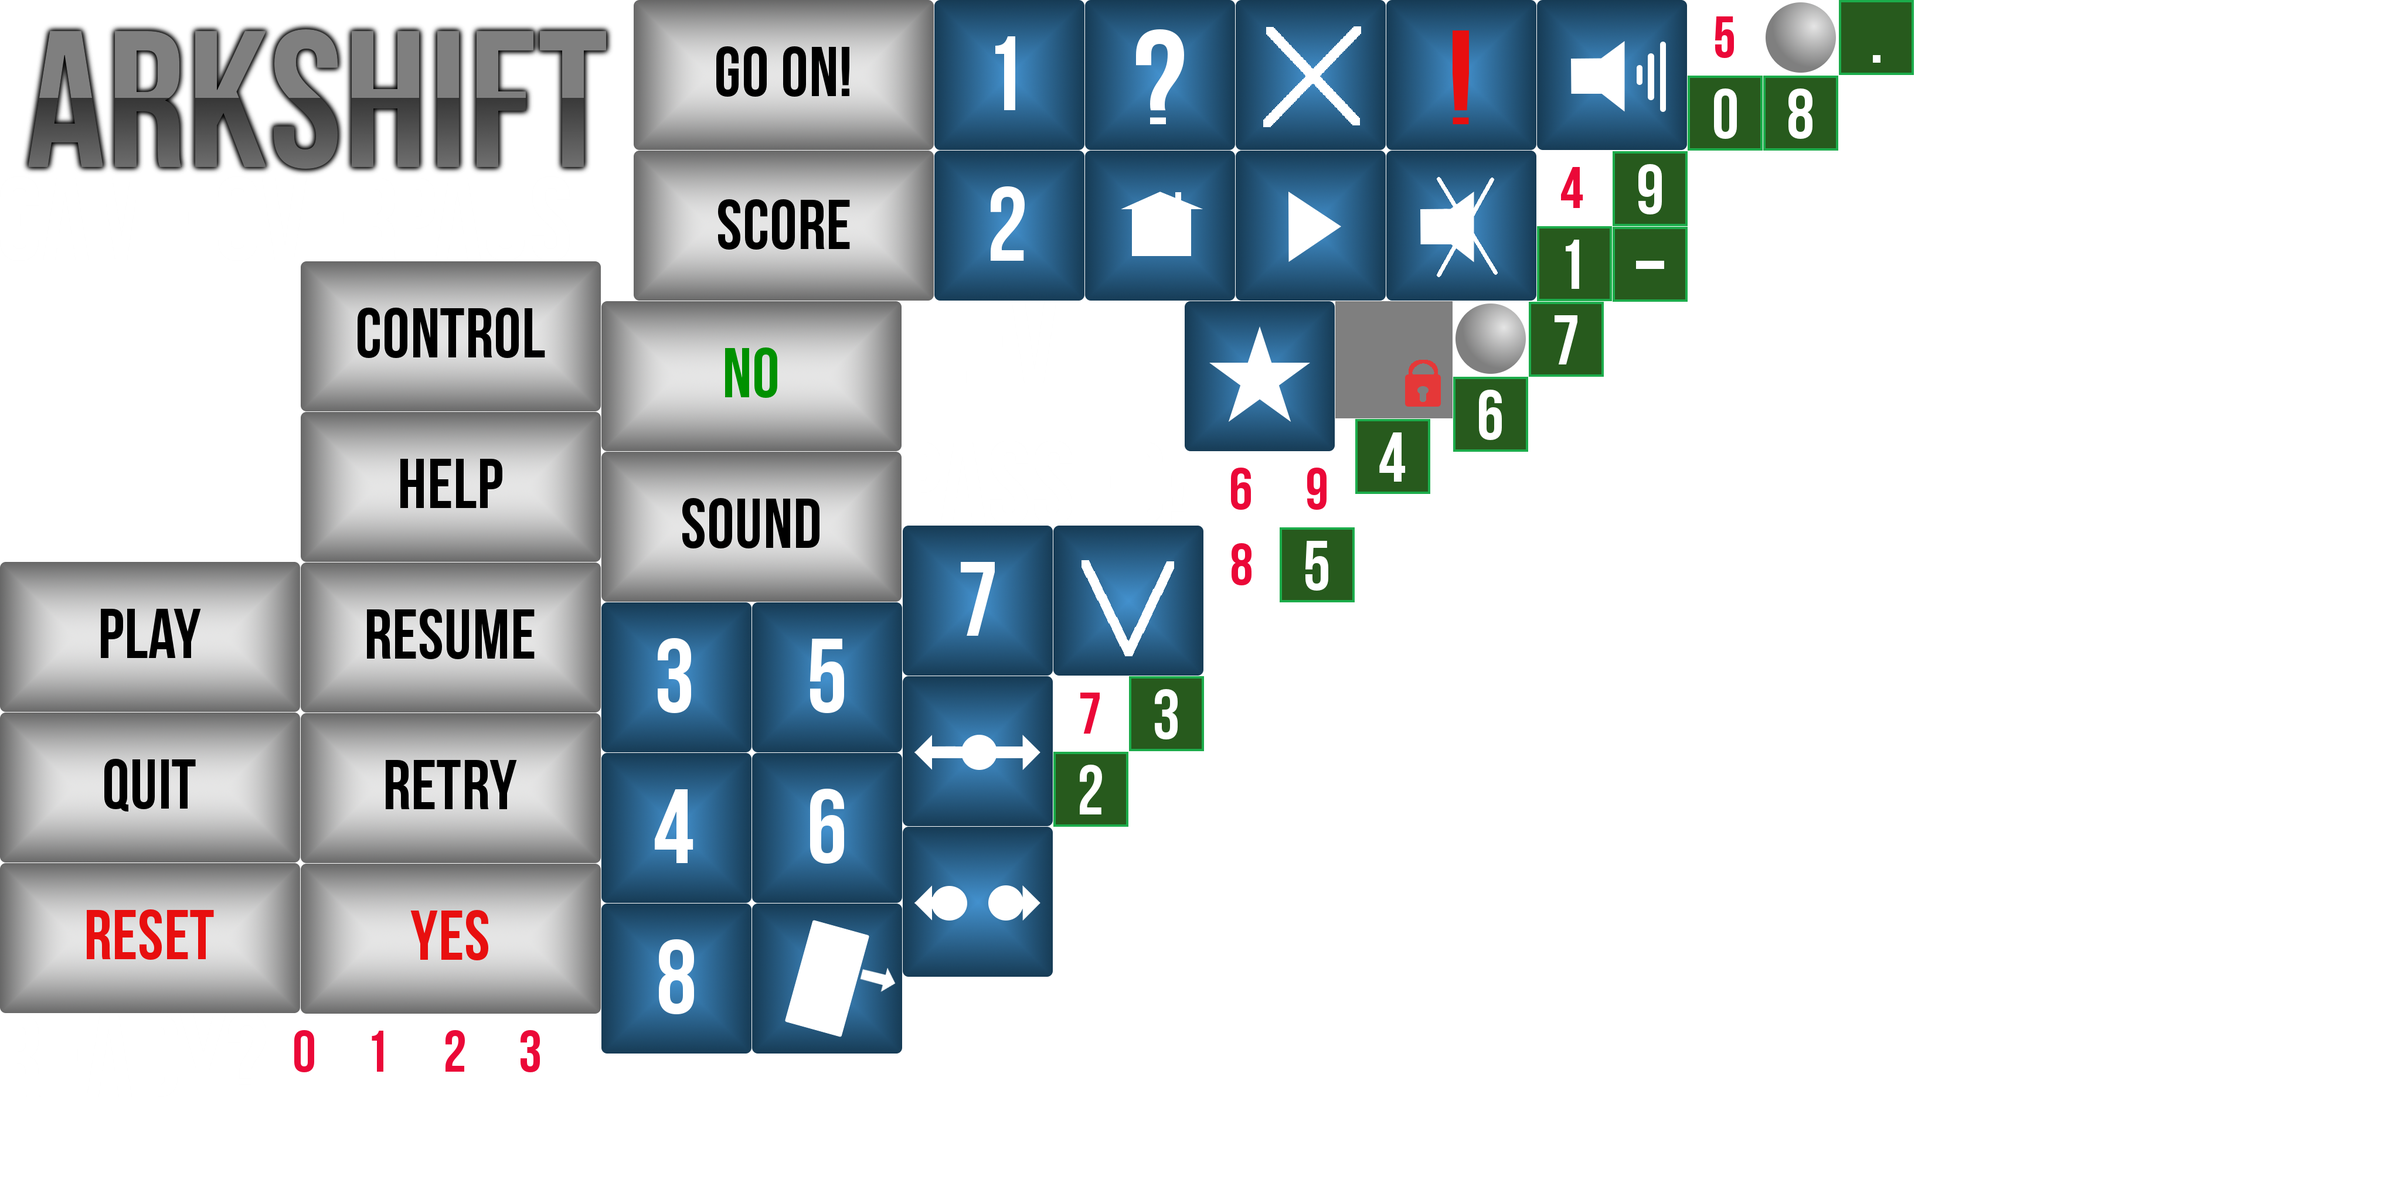
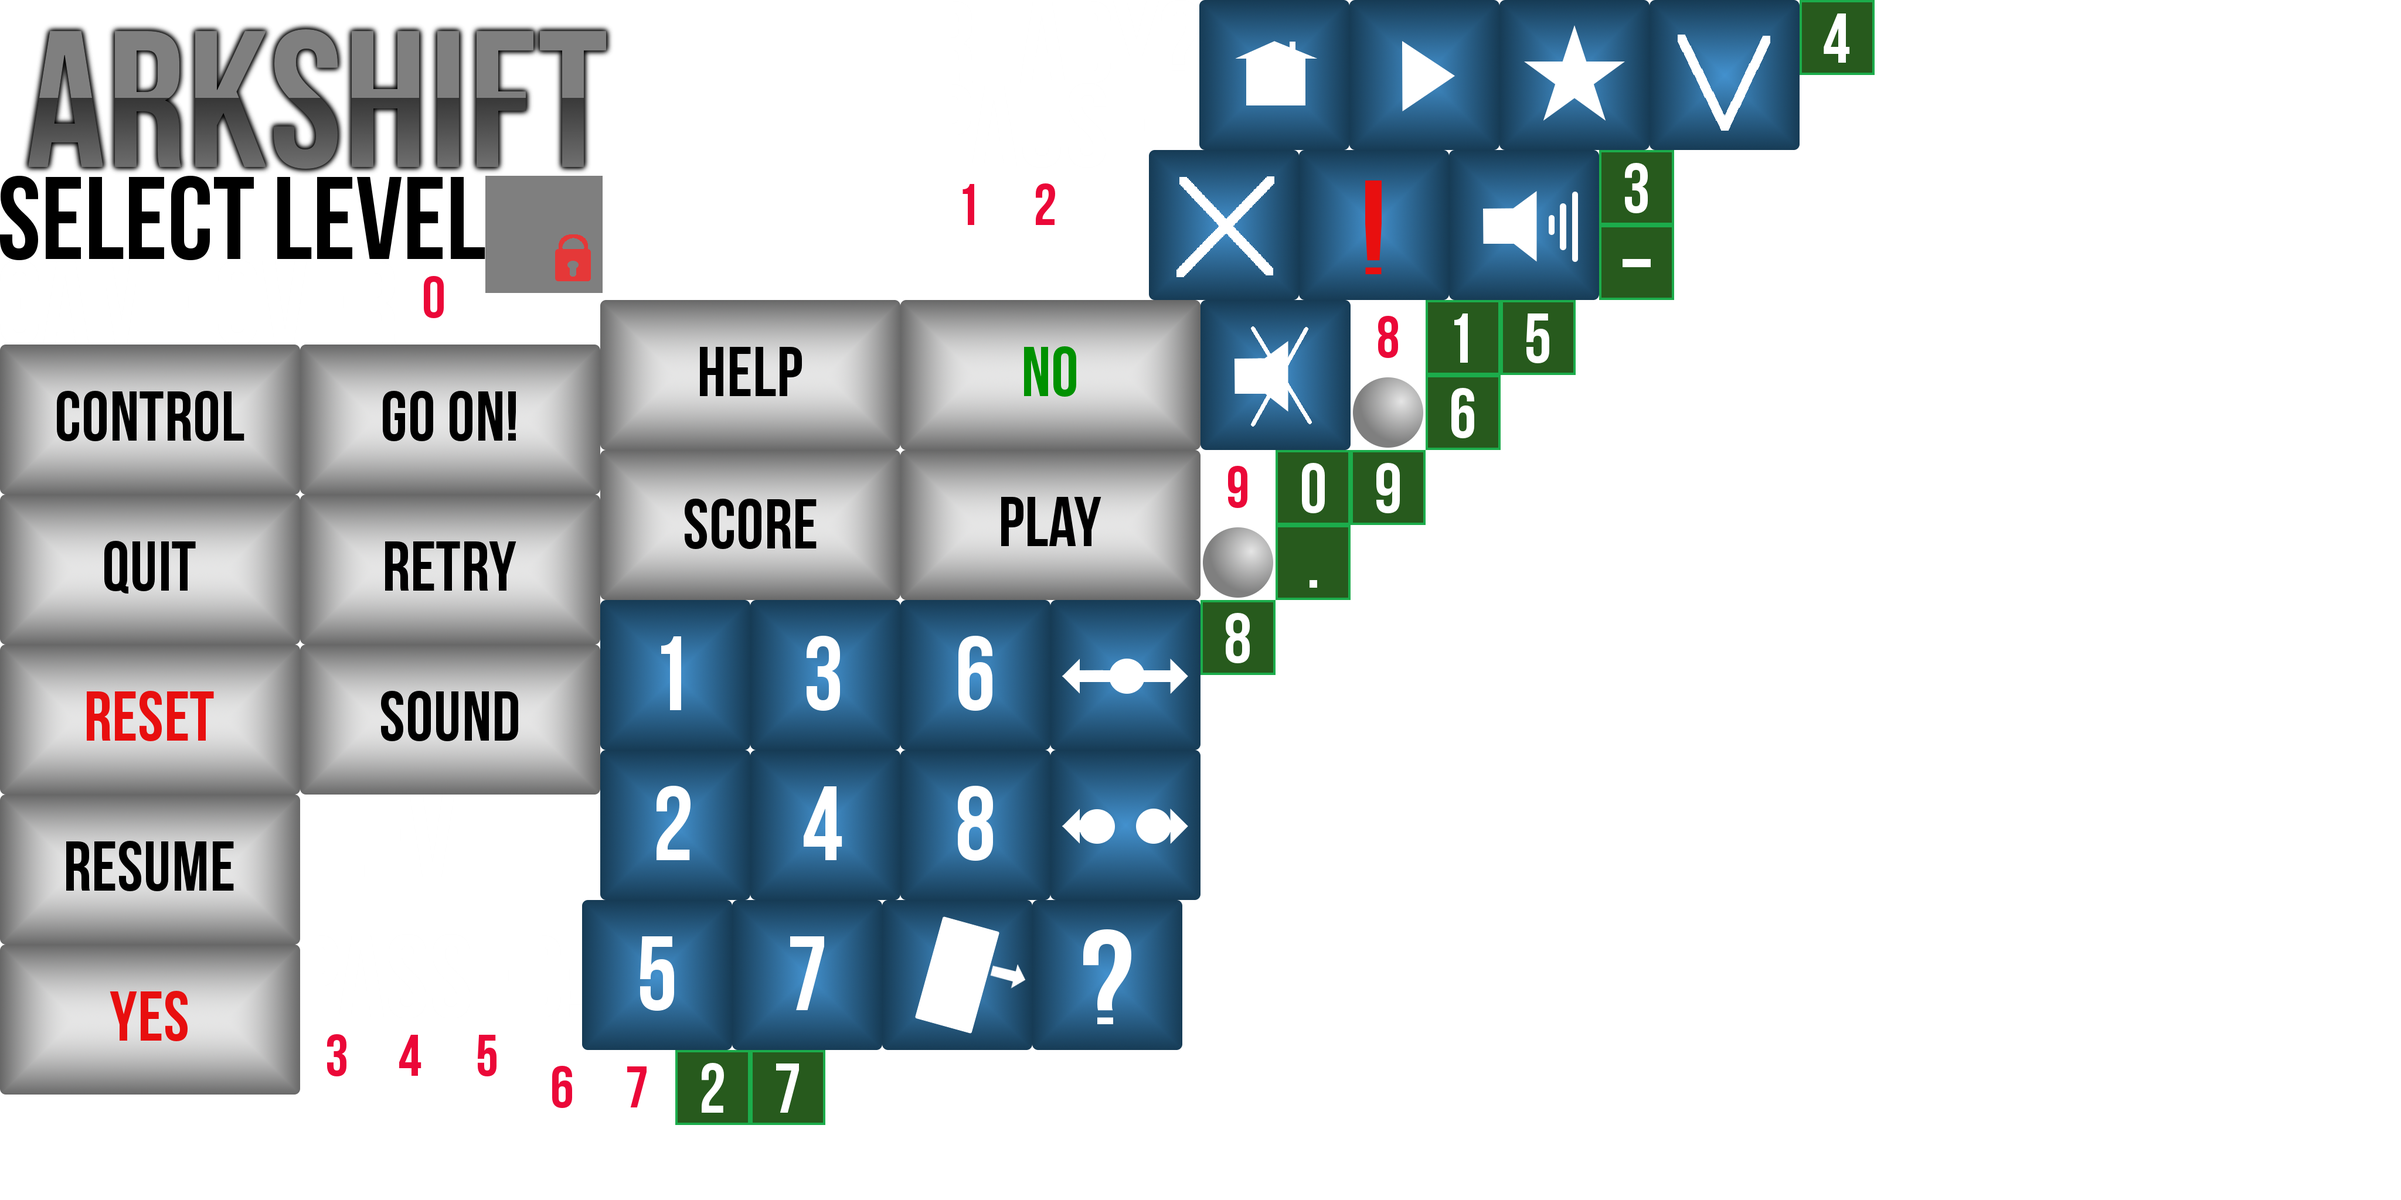
implement new ui atlas in MainMenu and SelectLevel screens. solve the bug in select level screen

diff --git a/src/com/mmango/arkshift/Assets.java b/src/com/mmango/arkshift/Assets.java
@@ -29,7 +29,7 @@ public class Assets {
 
 */	
 	public static Texture mainScreenUIElements;
-	public static TextureRegion arkshiftLogoGrey;
+	public static TextureRegion mainMenuLogo;
 	public static TextureRegion ballsLeft0;
 	public static TextureRegion ballsLeft1;
 	public static TextureRegion ballsLeft2;
@@ -92,18 +92,7 @@ public class Assets {
 	public static TextureRegion score9;
 	public static TextureRegion scoreDot;
 	public static TextureRegion scoreMinus;
-
-	
-	
-	
-	
-	
-	
-	
-	
-	
-	
-	
+	public static TextureRegion selectLevelMessage;
 	
 //	public static Texture highscoresScreenBackground;
 //	public static TextureRegion highscoresScreenBackgroundRegion;
@@ -191,69 +180,72 @@ public class Assets {
 		mainMenuTextHighScores = new TextureRegion(mainScreenUIElements, 0, 1024, 512, 256);
 */
 		
-		arkshiftLogoGrey = new TextureRegion(mainScreenUIElements, 0, 0, 1080, 300);
-		ballsLeft0 = new TextureRegion(mainScreenUIElements, 455, 1731, 128, 128);
-		ballsLeft1 = new TextureRegion(mainScreenUIElements, 584, 1731, 128, 128);
-		ballsLeft2 = new TextureRegion(mainScreenUIElements, 713, 1731, 128, 128);
-		ballsLeft3 = new TextureRegion(mainScreenUIElements, 842, 1731, 128, 128);
-		ballsLeft4 = new TextureRegion(mainScreenUIElements, 2622, 257, 128, 128);
-		ballsLeft5 = new TextureRegion(mainScreenUIElements, 2879, 0, 128, 128);
-		ballsLeft6 = new TextureRegion(mainScreenUIElements, 2054, 771, 128, 128);
-		ballsLeft7 = new TextureRegion(mainScreenUIElements, 1797, 1154, 128, 128);
-		ballsLeft8 = new TextureRegion(mainScreenUIElements, 2054, 900, 128, 128);
-		ballsLeft9 = new TextureRegion(mainScreenUIElements, 2183, 771, 128, 128);
-		ballsSymbol = new TextureRegion(mainScreenUIElements, 2479, 514, 128, 128);
-		fontBebasneue64x64White = new TextureRegion(mainScreenUIElements, 0, 446, 512, 512);
-		buttonLevel1 = new TextureRegion(mainScreenUIElements, 1594, 0, 256, 256);
-		buttonLevel2 = new TextureRegion(mainScreenUIElements, 1594, 257, 256, 256);
-		buttonLevel3 = new TextureRegion(mainScreenUIElements, 1026, 1028, 256, 256);
-		buttonLevel4 = new TextureRegion(mainScreenUIElements, 1026, 1285, 256, 256);
-		buttonLevel5 = new TextureRegion(mainScreenUIElements, 1283, 1028, 256, 256);
-		buttonLevel6 = new TextureRegion(mainScreenUIElements, 1283, 1285, 256, 256);
-		buttonLevel7 = new TextureRegion(mainScreenUIElements, 1540, 897, 256, 256);
-		buttonLevel8 = new TextureRegion(mainScreenUIElements, 1026, 1542, 256, 256);
-		buttonUnavailableX = new TextureRegion(mainScreenUIElements, 2278, 514, 200, 200);
-		gameOverMessage = new TextureRegion(mainScreenUIElements, 0, 301, 676, 144);
-		levelPassedMessage = new TextureRegion(mainScreenUIElements, 1539, 514, 481, 382);
-		mainMenuButtonControlSwipe = new TextureRegion(mainScreenUIElements, 1540, 1154, 256, 256);
-		mainMenuButtonControlTilt = new TextureRegion(mainScreenUIElements, 1283, 1542, 256, 256);
-		mainMenuButtonControlTouch = new TextureRegion(mainScreenUIElements, 1540, 1411, 256, 256);
-		mainMenuButtonHelp = new TextureRegion(mainScreenUIElements, 1851, 0, 256, 256);
-		mainMenuButtonHome = new TextureRegion(mainScreenUIElements, 1851, 257, 256, 256);
-		mainMenuButtonNo = new TextureRegion(mainScreenUIElements, 2108, 0, 256, 256);
-		mainMenuButtonPlay = new TextureRegion(mainScreenUIElements, 2108, 257, 256, 256);
-		mainMenuButtonReset = new TextureRegion(mainScreenUIElements, 2365, 0, 256, 256);
-		mainMenuButtonScore = new TextureRegion(mainScreenUIElements, 2021, 514, 256, 256);
-		mainMenuButtonSoundDisabled = new TextureRegion(mainScreenUIElements, 2365, 257, 256, 256);
-		mainMenuButtonSoundEnabled = new TextureRegion(mainScreenUIElements, 2622, 0, 256, 256);
-		mainMenuButtonYes = new TextureRegion(mainScreenUIElements, 1797, 897, 256, 256);
-		mainMenuTextControl = new TextureRegion(mainScreenUIElements, 513, 446, 512, 256);
-		mainMenuTextGoon = new TextureRegion(mainScreenUIElements, 1081, 0, 512, 256);
-		mainMenuTextHelp = new TextureRegion(mainScreenUIElements, 513, 703, 512, 256);
-		mainMenuTextHighscores = new TextureRegion(mainScreenUIElements, 1081, 257, 512, 256);
-		mainMenuTextNo = new TextureRegion(mainScreenUIElements, 1026, 514, 512, 256);
-		mainMenuTextPlay = new TextureRegion(mainScreenUIElements, 0, 959, 512, 256);
-		mainMenuTextQuit = new TextureRegion(mainScreenUIElements, 0, 1216, 512, 256);
-		mainMenuTextReset = new TextureRegion(mainScreenUIElements, 0, 1473, 512, 256);
-		mainMenuTextResume = new TextureRegion(mainScreenUIElements, 513, 960, 512, 256);
-		mainMenuTextRetry = new TextureRegion(mainScreenUIElements, 513, 1217, 512, 256);
-		mainMenuTextSound = new TextureRegion(mainScreenUIElements, 1026, 771, 512, 256);
-		mainMenuTextYes = new TextureRegion(mainScreenUIElements, 513, 1474, 512, 256);
-		pausePutton = new TextureRegion(mainScreenUIElements, 3008, 0, 128, 128);
-		pauseMessage = new TextureRegion(mainScreenUIElements, 677, 301, 368, 144);
-		readyMessage = new TextureRegion(mainScreenUIElements, 0, 1730, 454, 142);
-		score0 = new TextureRegion(mainScreenUIElements, 2879, 129, 128, 128);
-		score1 = new TextureRegion(mainScreenUIElements, 2622, 386, 128, 128);
-		score2 = new TextureRegion(mainScreenUIElements, 1797, 1283, 128, 128);
-		score3 = new TextureRegion(mainScreenUIElements, 1926, 1154, 128, 128);
-		score4 = new TextureRegion(mainScreenUIElements, 2312, 715, 128, 128);
-		score5 = new TextureRegion(mainScreenUIElements, 2183, 900, 128, 128);
-		score6 = new TextureRegion(mainScreenUIElements, 2479, 643, 128, 128);
-		score7 = new TextureRegion(mainScreenUIElements, 2608, 515, 128, 128);
-		score8 = new TextureRegion(mainScreenUIElements, 3008, 129, 128, 128);
-		score9 = new TextureRegion(mainScreenUIElements, 2751, 258, 128, 128);
-		scoreDot = new TextureRegion(mainScreenUIElements, 3137, 0, 128, 128);
-		scoreMinus = new TextureRegion(mainScreenUIElements, 2751, 387, 128, 128);
+		mainMenuLogo = new TextureRegion(mainScreenUIElements, 0, 0, 1080, 300);
+		ballsLeft0 = new TextureRegion(mainScreenUIElements, 676, 444, 128, 128);
+		ballsLeft1 = new TextureRegion(mainScreenUIElements, 1592, 286, 128, 128);
+		ballsLeft2 = new TextureRegion(mainScreenUIElements, 1720, 286, 128, 128);
+		ballsLeft3 = new TextureRegion(mainScreenUIElements, 512, 1738, 128, 128);
+		ballsLeft4 = new TextureRegion(mainScreenUIElements, 640, 1738, 128, 128);
+		ballsLeft5 = new TextureRegion(mainScreenUIElements, 768, 1738, 128, 128);
+		ballsLeft6 = new TextureRegion(mainScreenUIElements, 896, 1792, 128, 128);
+		ballsLeft7 = new TextureRegion(mainScreenUIElements, 1024, 1792, 128, 128);
+		ballsLeft8 = new TextureRegion(mainScreenUIElements, 2304, 512, 128, 128);
+		ballsLeft9 = new TextureRegion(mainScreenUIElements, 2048, 768, 128, 128);
+		ballsSymbol = new TextureRegion(mainScreenUIElements, 2304, 640, 128, 128);
+		fontBebasneue64x64White = new TextureRegion(mainScreenUIElements, 1080, 0, 512, 512);
+		buttonLevel1 = new TextureRegion(mainScreenUIElements, 1024, 1024, 256, 256);
+		buttonLevel2 = new TextureRegion(mainScreenUIElements, 1024, 1280, 256, 256);
+		buttonLevel3 = new TextureRegion(mainScreenUIElements, 1280, 1024, 256, 256);
+		buttonLevel4 = new TextureRegion(mainScreenUIElements, 1280, 1280, 256, 256);
+		buttonLevel5 = new TextureRegion(mainScreenUIElements, 993, 1536, 256, 256);
+		buttonLevel6 = new TextureRegion(mainScreenUIElements, 1536, 1024, 256, 256);
+		buttonLevel7 = new TextureRegion(mainScreenUIElements, 1249, 1536, 256, 256);
+		buttonLevel8 = new TextureRegion(mainScreenUIElements, 1536, 1280, 256, 256);
+		buttonUnavailableX = new TextureRegion(mainScreenUIElements, 828, 300, 200, 200);
+		gameOverMessage = new TextureRegion(mainScreenUIElements, 0, 444, 676, 144);
+		levelPassedMessage = new TextureRegion(mainScreenUIElements, 512, 1356, 481, 382);
+		mainMenuButtonControlSwipe = new TextureRegion(mainScreenUIElements, 1792, 1024, 256, 256);
+		mainMenuButtonControlTilt = new TextureRegion(mainScreenUIElements, 1505, 1536, 256, 256);
+		mainMenuButtonControlTouch = new TextureRegion(mainScreenUIElements, 1792, 1280, 256, 256);
+		mainMenuButtonHelp = new TextureRegion(mainScreenUIElements, 1761, 1536, 256, 256);
+		mainMenuButtonHome = new TextureRegion(mainScreenUIElements, 2046, 0, 256, 256);
+		mainMenuButtonNo = new TextureRegion(mainScreenUIElements, 1960, 256, 256, 256);
+		mainMenuButtonPlay = new TextureRegion(mainScreenUIElements, 2302, 0, 256, 256);
+		mainMenuButtonReset = new TextureRegion(mainScreenUIElements, 2216, 256, 256, 256);
+		mainMenuButtonScore = new TextureRegion(mainScreenUIElements, 2558, 0, 256, 256);
+		mainMenuButtonSoundDisabled = new TextureRegion(mainScreenUIElements, 2048, 512, 256, 256);
+		mainMenuButtonSoundEnabled = new TextureRegion(mainScreenUIElements, 2472, 256, 256, 256);
+		mainMenuButtonYes = new TextureRegion(mainScreenUIElements, 2814, 0, 256, 256);
+		mainMenuTextControl = new TextureRegion(mainScreenUIElements, 0, 588, 512, 256);
+		mainMenuTextGoon = new TextureRegion(mainScreenUIElements, 512, 588, 512, 256);
+		mainMenuTextHelp = new TextureRegion(mainScreenUIElements, 1024, 512, 512, 256);
+		mainMenuTextHighscores = new TextureRegion(mainScreenUIElements, 1024, 768, 512, 256);
+		mainMenuTextNo = new TextureRegion(mainScreenUIElements, 1536, 512, 512, 256);
+		mainMenuTextPlay = new TextureRegion(mainScreenUIElements, 1536, 768, 512, 256);
+		mainMenuTextQuit = new TextureRegion(mainScreenUIElements, 0, 844, 512, 256);
+		mainMenuTextReset = new TextureRegion(mainScreenUIElements, 0, 1100, 512, 256);
+		mainMenuTextResume = new TextureRegion(mainScreenUIElements, 0, 1356, 512, 256);
+		mainMenuTextRetry = new TextureRegion(mainScreenUIElements, 512, 844, 512, 256);
+		mainMenuTextSound = new TextureRegion(mainScreenUIElements, 512, 1100, 512, 256);
+		mainMenuTextYes = new TextureRegion(mainScreenUIElements, 0, 1612, 512, 256);
+		pausePutton = new TextureRegion(mainScreenUIElements, 2048, 896, 128, 128);
+		pauseMessage = new TextureRegion(mainScreenUIElements, 1592, 142, 368, 144);
+		readyMessage = new TextureRegion(mainScreenUIElements, 1592, 0, 454, 142);
+		score0 = new TextureRegion(mainScreenUIElements, 2176, 768, 128, 128);
+		score1 = new TextureRegion(mainScreenUIElements, 2432, 512, 128, 128);
+		score2 = new TextureRegion(mainScreenUIElements, 1152, 1792, 128, 128);
+		score3 = new TextureRegion(mainScreenUIElements, 2728, 256, 128, 128);
+		score4 = new TextureRegion(mainScreenUIElements, 3070, 0, 128, 128);
+		score5 = new TextureRegion(mainScreenUIElements, 2560, 512, 128, 128);
+		score6 = new TextureRegion(mainScreenUIElements, 2432, 640, 128, 128);
+		score7 = new TextureRegion(mainScreenUIElements, 1280, 1792, 128, 128);
+		score8 = new TextureRegion(mainScreenUIElements, 2048, 1024, 128, 128);
+		score9 = new TextureRegion(mainScreenUIElements, 2304, 768, 128, 128);
+		scoreDot = new TextureRegion(mainScreenUIElements, 2176, 896, 128, 128);
+		scoreMinus = new TextureRegion(mainScreenUIElements, 2728, 384, 128, 128);
+		selectLevelMessage = new TextureRegion(mainScreenUIElements, 0, 300, 828, 144);
+
+		
 
 		
 		
@@ -357,6 +349,9 @@ public class Assets {
 		mainScreenUIElements.reload();
 		//highscoresScreenBackground.reload();
 		//gameFieldGreen.reload();
+		//selectLevelScreenElements.reload();
+		
+		
 		userInterfaceElements.reload();
 		gameScreenBackground.reload();
 		gameScreenElements.reload();

diff --git a/src/com/mmango/arkshift/SelectLevelScreen.java b/src/com/mmango/arkshift/SelectLevelScreen.java
@@ -30,31 +30,30 @@ public class SelectLevelScreen extends GLScreen {
 	Rectangle level7ButtonBounds;
 	Rectangle level8ButtonBounds;
 	// Rectangle buttonUnavailable;
-	Rectangle buttonHomeGreenBounds;
+	Rectangle buttonHomeBounds;
 
 	public SelectLevelScreen(Game game) {
 		super(game);
 
 		guiCam = new Camera2D(glGraphics, RESOLUTION_X, RESOLUTION_Y);
-		level1ButtonBounds = new Rectangle(270 - 100, 1290 - 100, 200, 200);
-		level2ButtonBounds = new Rectangle(810 - 100, 1290 - 100, 200, 200);
-		level3ButtonBounds = new Rectangle(270 - 100, 990 - 100, 200, 200);
-		level4ButtonBounds = new Rectangle(810 - 100, 990 - 100, 200, 200);
-		level5ButtonBounds = new Rectangle(270 - 100, 690 - 100, 200, 200);
-		level6ButtonBounds = new Rectangle(810 - 100, 690 - 100, 200, 200);
-		level7ButtonBounds = new Rectangle(270 - 100, 390 - 100, 200, 200);
-		level8ButtonBounds = new Rectangle(810 - 100, 390 - 100, 200, 200);
-		// buttonUnavailable = new Rectangle(0, 0, RESOLUTION_X, RESOLUTION_Y);
-		buttonHomeGreenBounds = new Rectangle(540 - 100, 150 - 100, 200, 200);
+		level1ButtonBounds = new Rectangle(270 - 128, 1400 - 128, 256, 2056);
+		level2ButtonBounds = new Rectangle(810 - 128, 1400 - 128, 256, 256);
+		level3ButtonBounds = new Rectangle(270 - 128, 1100 - 128, 256, 256);
+		level4ButtonBounds = new Rectangle(810 - 128, 1100 - 128, 256, 256);
+		level5ButtonBounds = new Rectangle(270 - 128, 800 - 128, 256, 256);
+		level6ButtonBounds = new Rectangle(810 - 128, 800 - 128, 256, 256);
+		level7ButtonBounds = new Rectangle(270 - 128, 500 - 128, 256, 256);
+		level8ButtonBounds = new Rectangle(810 - 128, 500 - 128, 256, 256);
+		buttonHomeBounds = new Rectangle(RESOLUTION_X / 2 - 128, 150 - 128, 200, 200);
 
 		touchPoint = new Vector2();
-		batcher = new SpriteBatcher(glGraphics, 20);
+		batcher = new SpriteBatcher(glGraphics, 40);
 
 	}
 
 	@Override
 	public void update(float deltaTime) {
-		int level = 0;
+		int level = 9999;
 		List<TouchEvent> touchEvents = game.getInput().getTouchEvents();
 		game.getInput().getKeyEvents();
 		int len = touchEvents.size();
@@ -89,14 +88,14 @@ public class SelectLevelScreen extends GLScreen {
 						touchPoint)) {
 					level = 8;
 				} else if (OverlapTester.pointInRectangle(
-						buttonHomeGreenBounds, touchPoint)) {
+						buttonHomeBounds, touchPoint)) {
 					level = 0;
 				}
 
 				if (level == 0) {
 					game.setScreen(new MainMenuScreen(game));
 					return;
-				} else {
+				} else if ((level >= 1 ) && (level <= 8 )) {
 					game.setScreen(new GameScreen(game, level));
 					return;
 				}
@@ -112,25 +111,29 @@ public class SelectLevelScreen extends GLScreen {
 
 		gl.glEnable(GL10.GL_TEXTURE_2D);
 
-		batcher.beginBatch(Assets.selectLevelScreenElements);
+		batcher.beginBatch(Assets.mainScreenBackground);
 		batcher.drawSprite(RESOLUTION_X / 2, RESOLUTION_Y / 2, RESOLUTION_X,
-				RESOLUTION_Y, Assets.selectLevelScreenBackgroundRegion);
+				RESOLUTION_Y, Assets.mainScreenBackgroundRegion);
 		batcher.endBatch();
 
 		gl.glEnable(GL10.GL_BLEND);
 		gl.glBlendFunc(GL10.GL_SRC_ALPHA, GL10.GL_ONE_MINUS_SRC_ALPHA);
 
-		batcher.beginBatch(Assets.selectLevelScreenElements);
-		batcher.drawSprite(270, 1290, 200, 200, Assets.level1Button);
-		batcher.drawSprite(810, 1290, 200, 200, Assets.level2Button);
-		batcher.drawSprite(270, 990, 200, 200, Assets.level3Button);
-		batcher.drawSprite(810, 990, 200, 200, Assets.level4Button);
-		batcher.drawSprite(270, 690, 200, 200, Assets.level5Button);
-		batcher.drawSprite(810, 690, 200, 200, Assets.level6Button);
-		batcher.drawSprite(270, 390, 200, 200, Assets.level7Button);
-		batcher.drawSprite(810, 390, 200, 200, Assets.level8Button);
-		batcher.drawSprite(810, 390, 200, 200, Assets.buttonUnavailable);
-		batcher.drawSprite(540, 150, 200, 200, Assets.buttonHomeGreen);
+		
+		batcher.beginBatch(Assets.mainScreenUIElements);
+		batcher.drawSprite(RESOLUTION_X / 2, 1700, 796, 185, Assets.selectLevelMessage);
+		
+		batcher.drawSprite(270, 1400, 256, 256, Assets.buttonLevel1);
+		batcher.drawSprite(810, 1400, 256, 256, Assets.buttonLevel2);
+		batcher.drawSprite(270, 1100, 256, 256, Assets.buttonLevel3);
+		batcher.drawSprite(810, 1100, 256, 256, Assets.buttonLevel4);
+		batcher.drawSprite(270, 800, 256, 256, Assets.buttonLevel5);
+		batcher.drawSprite(810, 800, 256, 256, Assets.buttonLevel6);
+		batcher.drawSprite(270, 500, 256, 256, Assets.buttonLevel7);
+		batcher.drawSprite(810, 500, 256, 256, Assets.buttonLevel8);
+		batcher.drawSprite(810, 500, 256, 256, Assets.buttonUnavailableX);
+		batcher.drawSprite(RESOLUTION_X / 2, 150, 256, 256, Assets.mainMenuButtonHome);
+		//batcher.drawSprite(156 + 256 + 256, 150, 512, 256, Assets.mainMenuTextQuit);
 		batcher.endBatch();
 		gl.glDisable(GL10.GL_BLEND);
 	}

diff --git a/src/com/mmango/arkshift/MainMenuScreen.java b/src/com/mmango/arkshift/MainMenuScreen.java
@@ -161,7 +161,7 @@ public class MainMenuScreen extends GLScreen {
 					Assets.mainMenuButtonSoundDisabled);
 		}
 		batcher.drawSprite(RESOLUTION_X / 2 + 128, 1400 - 768, 512, 256,
-				Assets.mainMenuTextHighScores);
+				Assets.mainMenuTextHighscores);
 		batcher.drawSprite(RESOLUTION_X / 2 - 256, 1400 - 768, 256, 256,
 				Assets.mainMenuButtonScore);
 		batcher.drawSprite(RESOLUTION_X / 2 + 128, 1400 - 1024, 512, 256,
